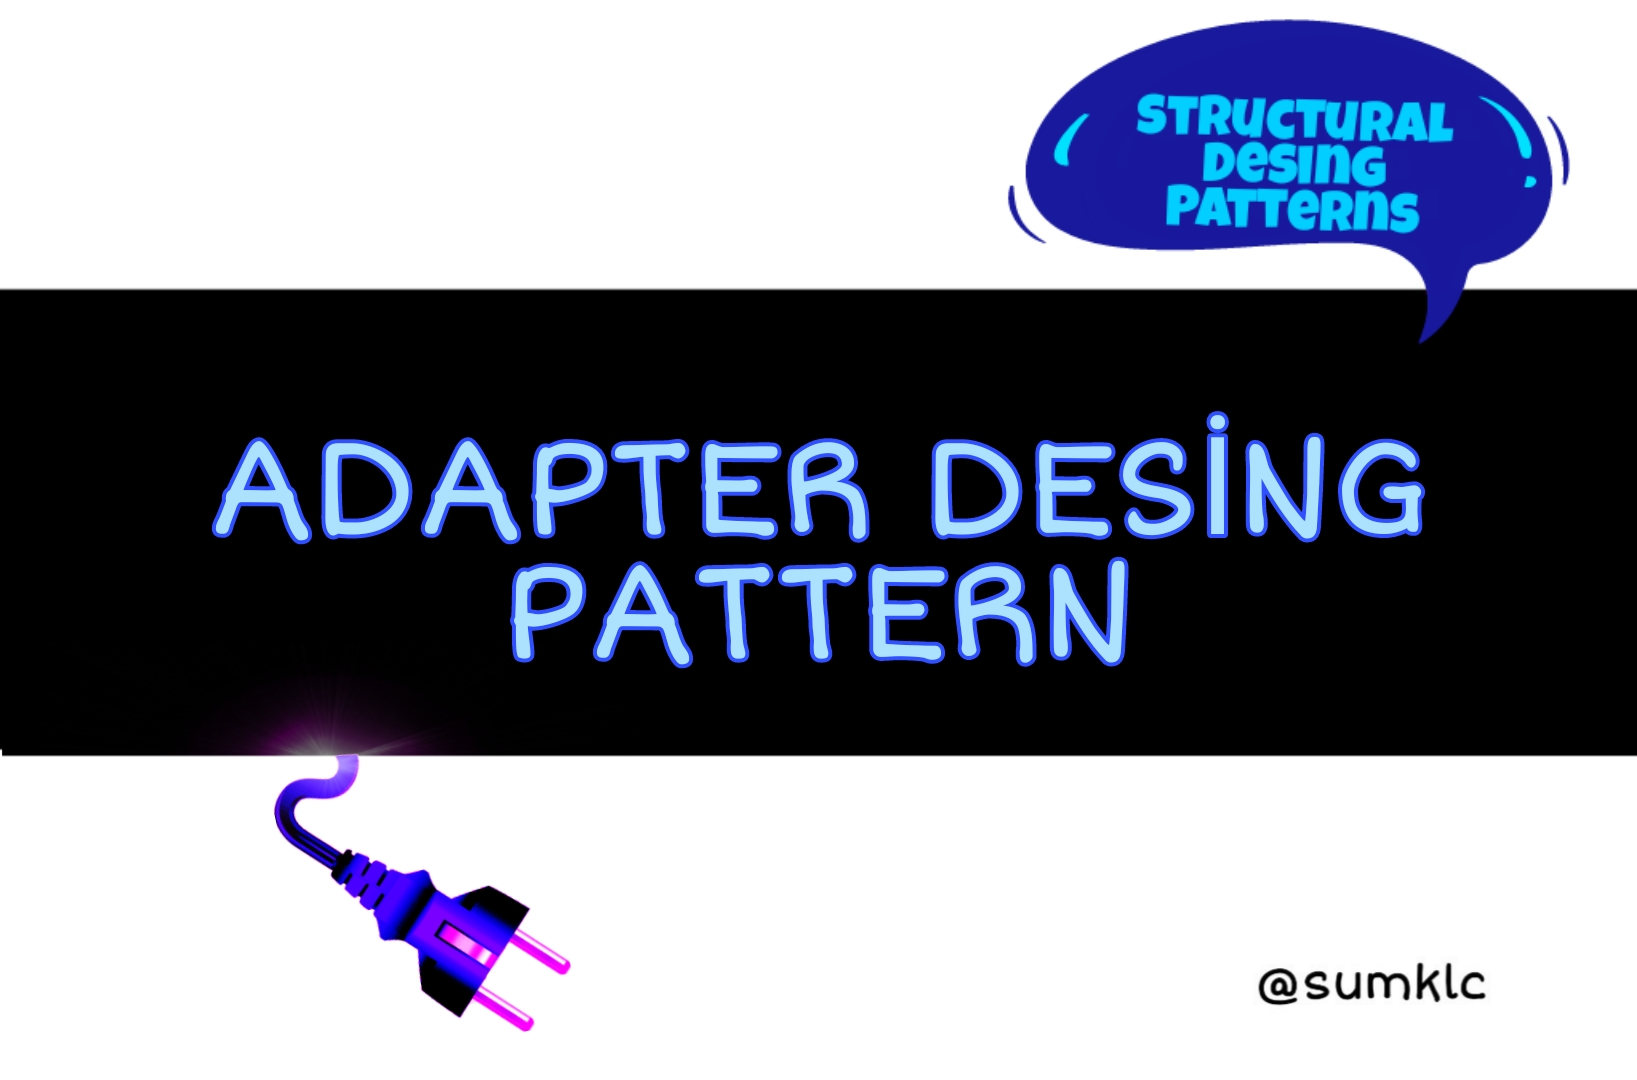
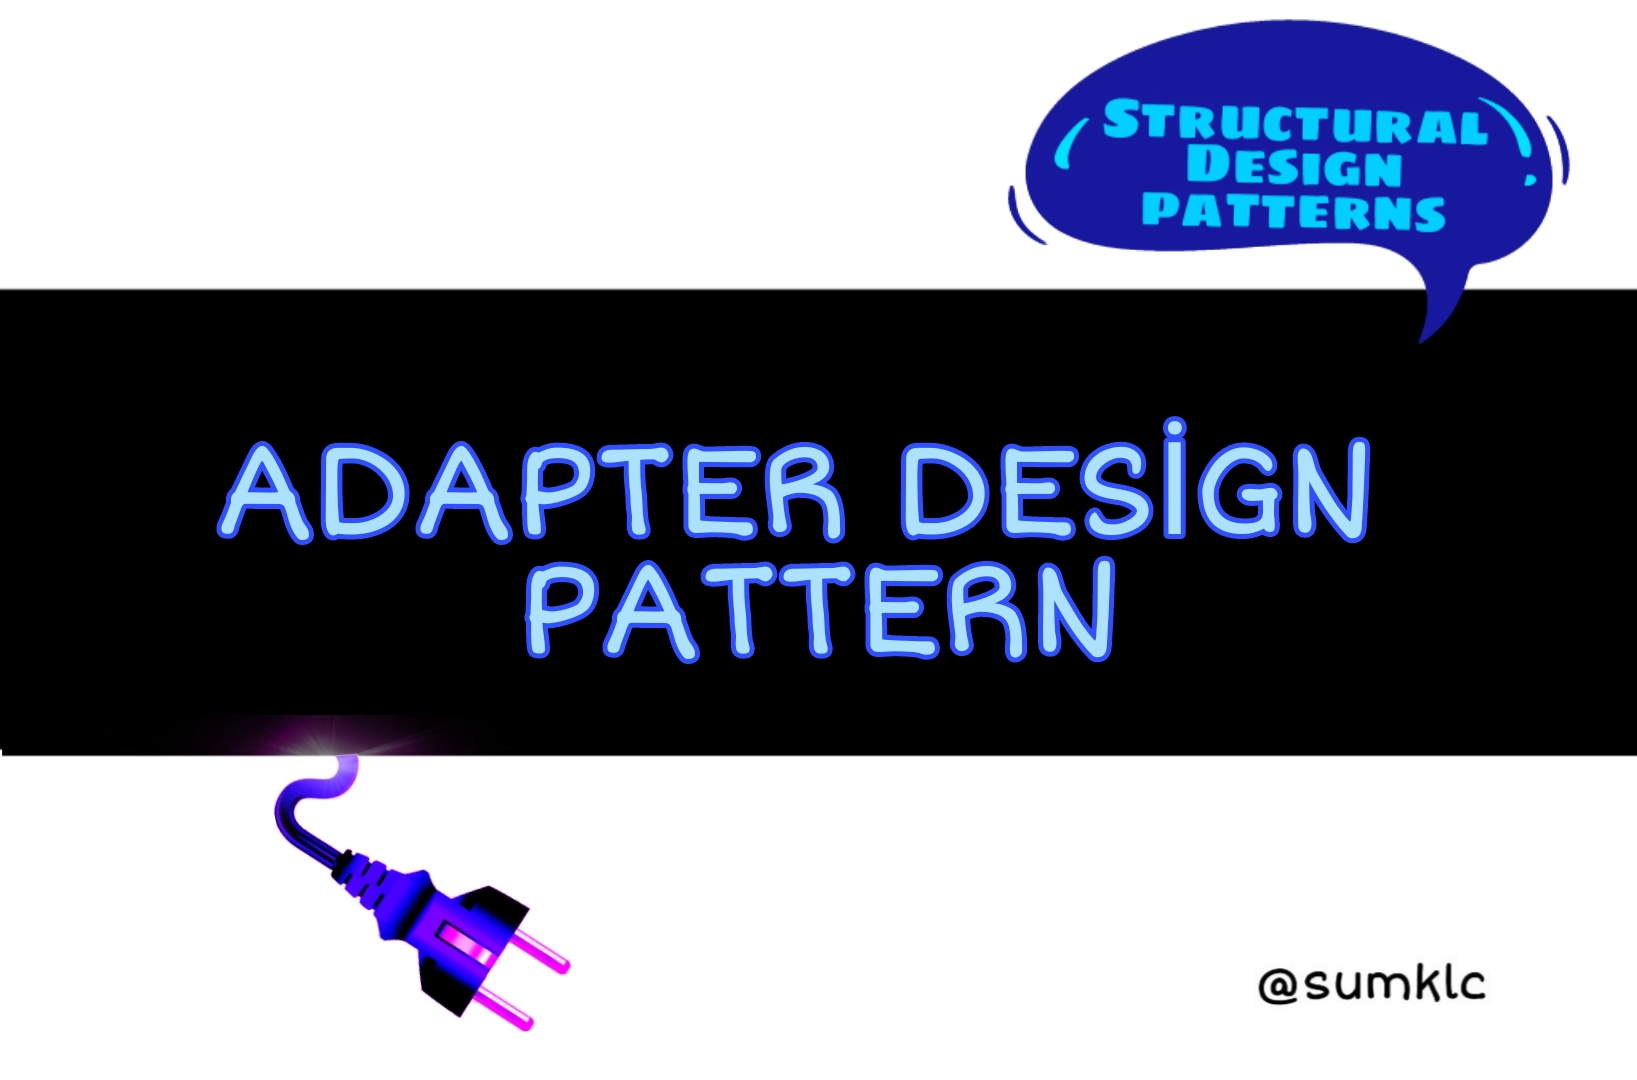
adapter pattern fix

diff --git a/hydejack/_posts/2021-04-21-Adapter-Desing-Pattern.md b/hydejack/_posts/2021-04-21-Adapter-Desing-Pattern.md
@@ -1,19 +1,18 @@
 ---
-title: # STRUCTURAL PATTERN: ADAPTER DESİNG PATTERN
+title: # STRUCTURAL PATTERN: ADAPTER DESİGN PATTERN
 image: /assets/img/blog/AdapterPattern.jpg
 
 description: >
 
 ---
-
--   Bildiğimiz üzere Desing pattern’lar 3 grup altında çeşitlendirilyor. [**Desing patterns**](https://medium.com/@sumeyyekilic/desi%CC%87ng-pattern-e85c89fd5075)  yazımı veya ilk grup creational pattern serimi okuyarak bir giriş yapabilirisiniz. .
+-   Bildiğimiz üzere Design pattern’lar 3 grup altında çeşitlendirilyor. [**Design patterns**](https://medium.com/@sumeyyekilic/desi%CC%87ng-pattern-e85c89fd5075)  yazımı veya ilk grup creational pattern serimi okuyarak bir giriş yapabilirisiniz. .
 
 Bu yazımda ise ikinci grup olan **Structural Patterns** serisine giriş yapmaktayım..
 
-**Structural Desing Pattern** nedir ? 💫 **HATIRLAYALIM ..**
+**Structural Design Pattern** nedir ? 💫 **HATIRLAYALIM ..**
 
 -   Structural = **Yapısal**. Yani nesneler arasındaki ilişkileri mimarileri yönetebilmek adına kullanılır.
--   **Structural patterns** ‘ lerden , **“ADATPER DESING PATTERN”** ‘a gelin birlikte bakalım :)
+-   **Structural patterns** ‘ lerden , **“ADATPER DESIGN PATTERN”** ‘a gelin birlikte bakalım :)
 
 #### 📌Giriş:
 
@@ -41,7 +40,7 @@ Var olan bir class ‘ımın mevcut intreface’i olsun ve birde uygulamamı tan
 
 🔌**Gelin daha geliştirici bakış açısıyla bakalım..**
 
-> Dışarıdaki yabancı bir servisi kendi projenize dahil etmek istiyoruz diyelim.. Bu yabancı servisi istediğimiz yere referans edebiliriz. Ama nasıl referans ettiğimiz burda devreye giriyor.Çünkü o yabancı servisi direkman bizim metodumuzun içinde kullanırsak o servise bağımlı oluruz. Burada adapter desing pattern’i , bağımlılığı ortadan kaldırmak için kullanabiliriz. Ve bu sayede nesnel programlama ve test edilebilirlik durumlarında sıkıntıya girmemiş oluruz.
+> Dışarıdaki yabancı bir servisi kendi projenize dahil etmek istiyoruz diyelim.. Bu yabancı servisi istediğimiz yere referans edebiliriz. Ama nasıl referans ettiğimiz burda devreye giriyor.Çünkü o yabancı servisi direkman bizim metodumuzun içinde kullanırsak o servise bağımlı oluruz. Burada adapter design pattern’i , bağımlılığı ortadan kaldırmak için kullanabiliriz. Ve bu sayede nesnel programlama ve test edilebilirlik durumlarında sıkıntıya girmemiş oluruz.
 
 💰 Mesela bir projede borçlandırma web servisini kullanıyor olalım. Onu direk metoda dahil etmek yerine ; bir adapter yazıp, bir interface’ den implemente edip metodun içinde onu kullanmak daha mantıklı olur.
 
@@ -54,8 +53,7 @@ Var olan bir class ‘ımın mevcut intreface’i olsun ve birde uygulamamı tan
 
 > **📊 Çizdiğim UML diyagramı şu şekilde :**
 
-
-![adapterpDesingPattern](/assets/img/blog/AdapterUml2.jpg)
+![adapterpDesignPattern](/assets/img/blog/AdapterUml2.jpg)
 
 
 **Yazdığım Kod üzerinden bakarsak :**
